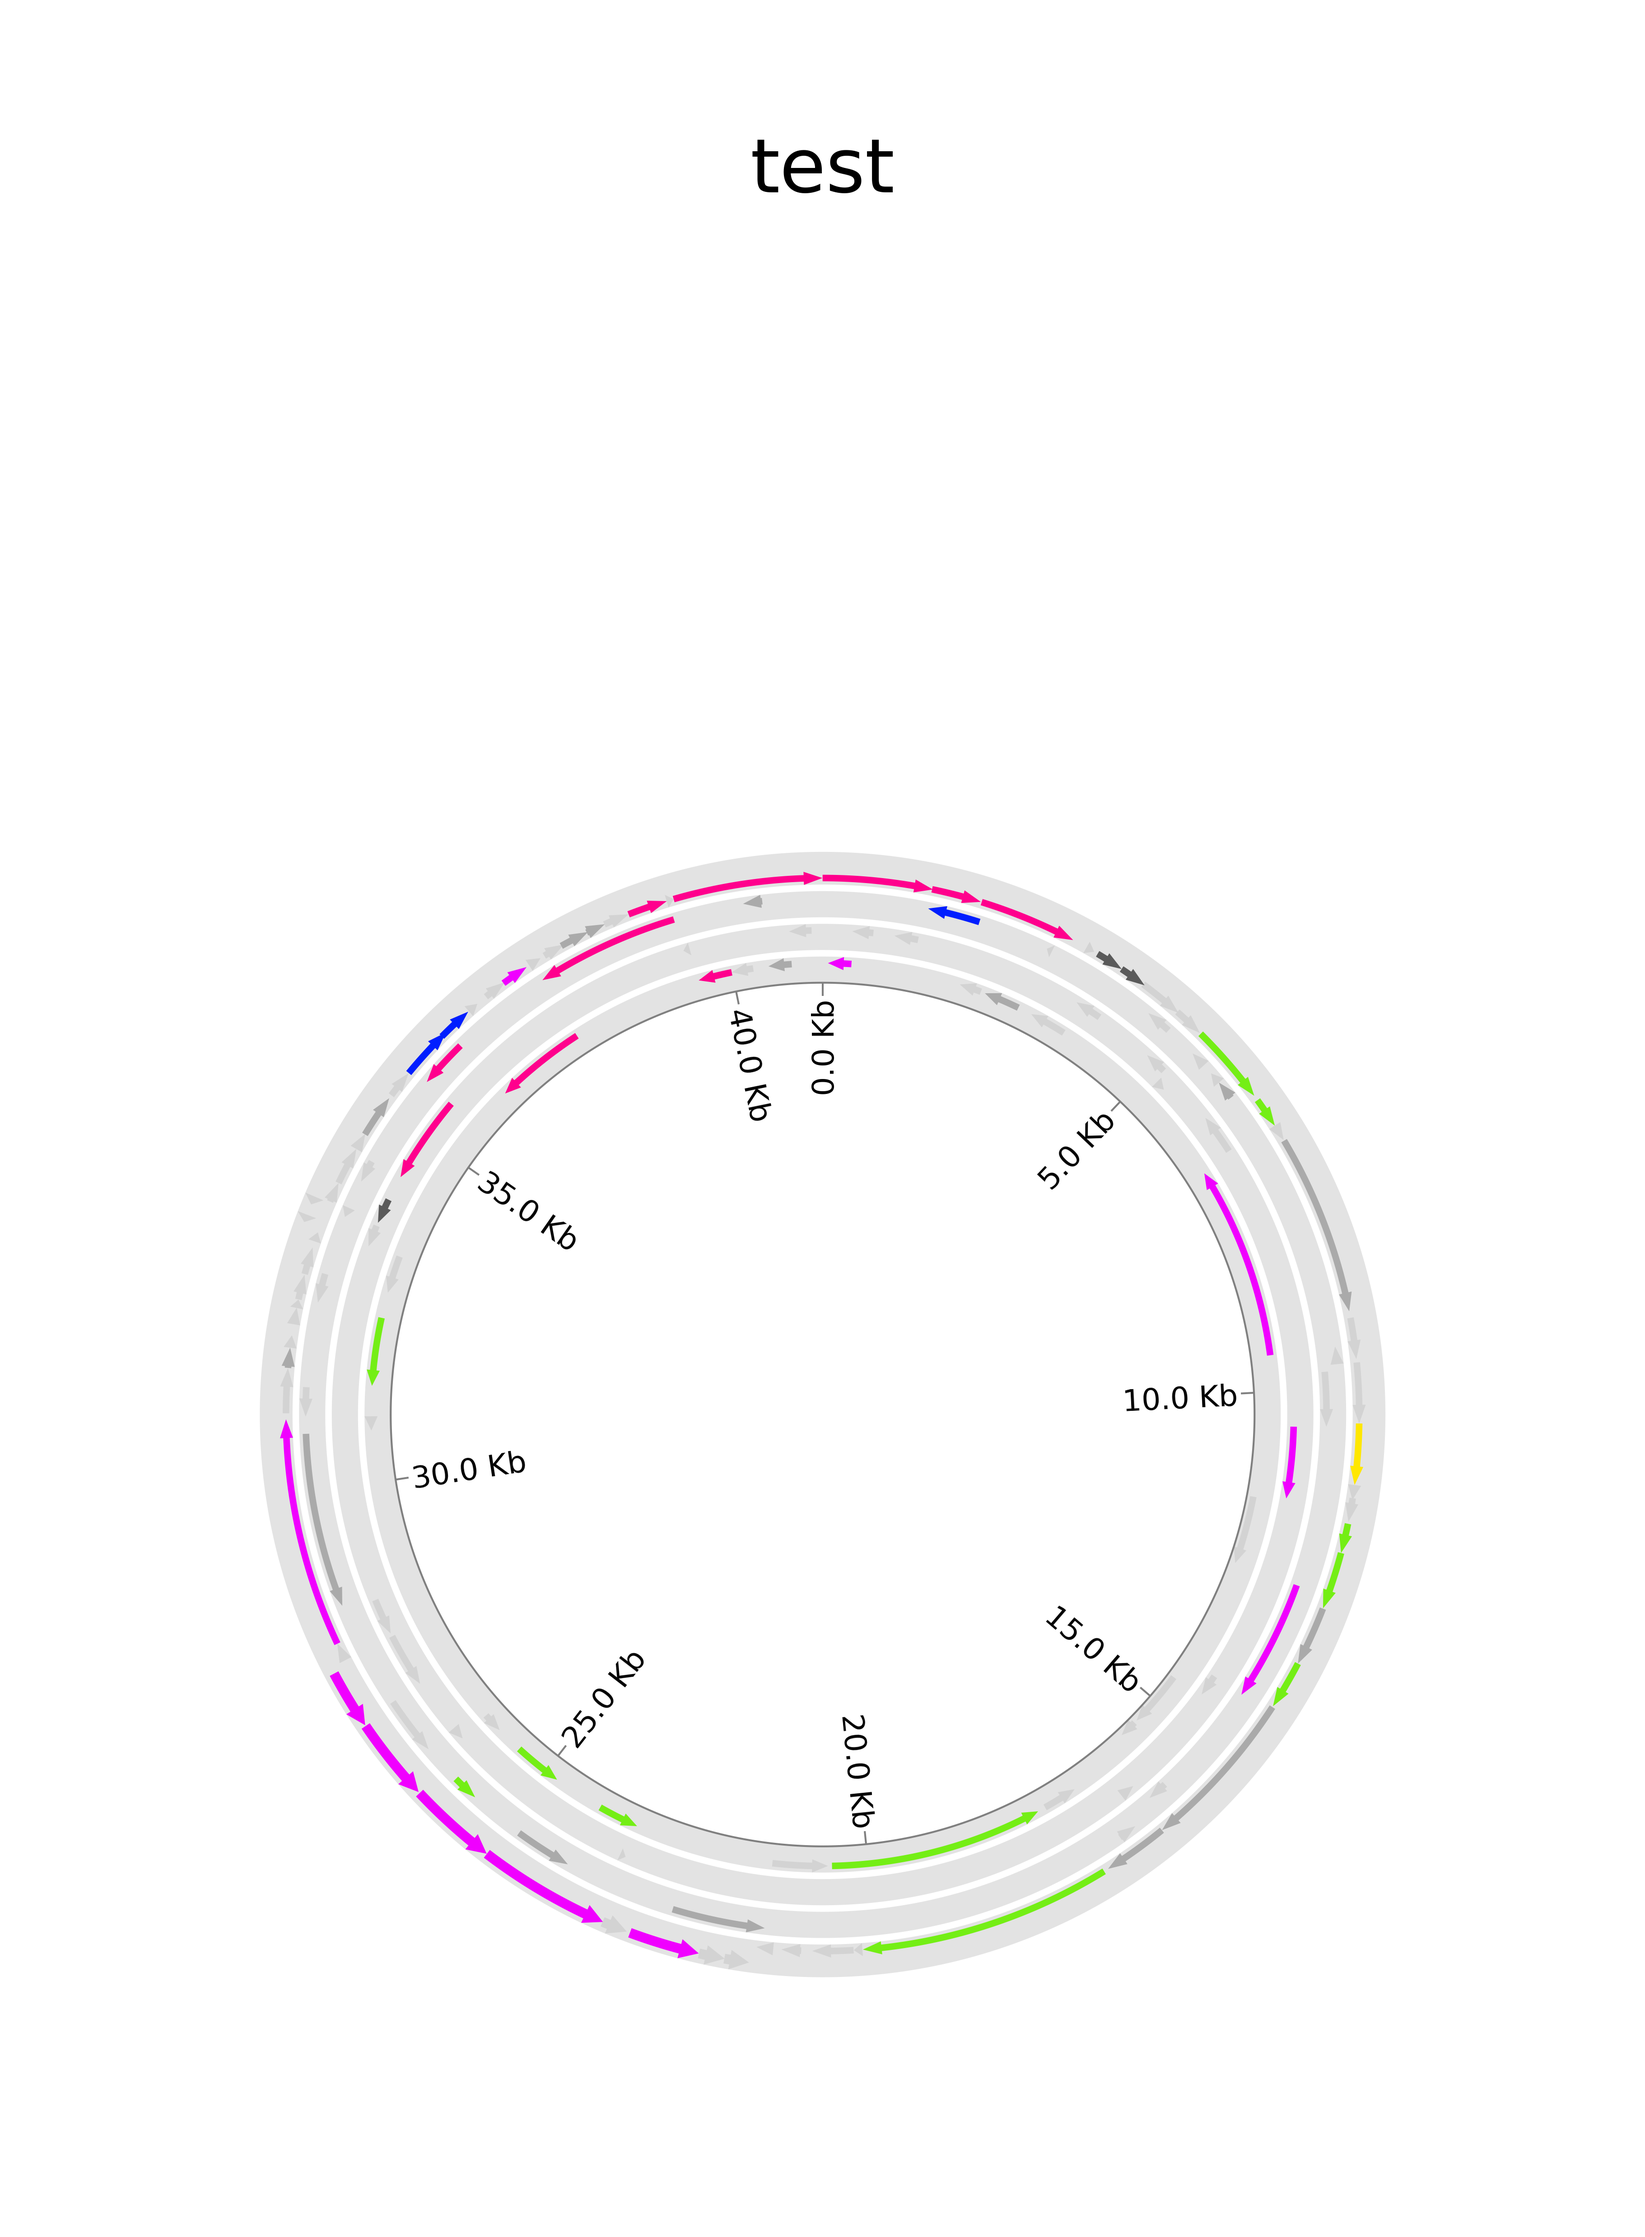
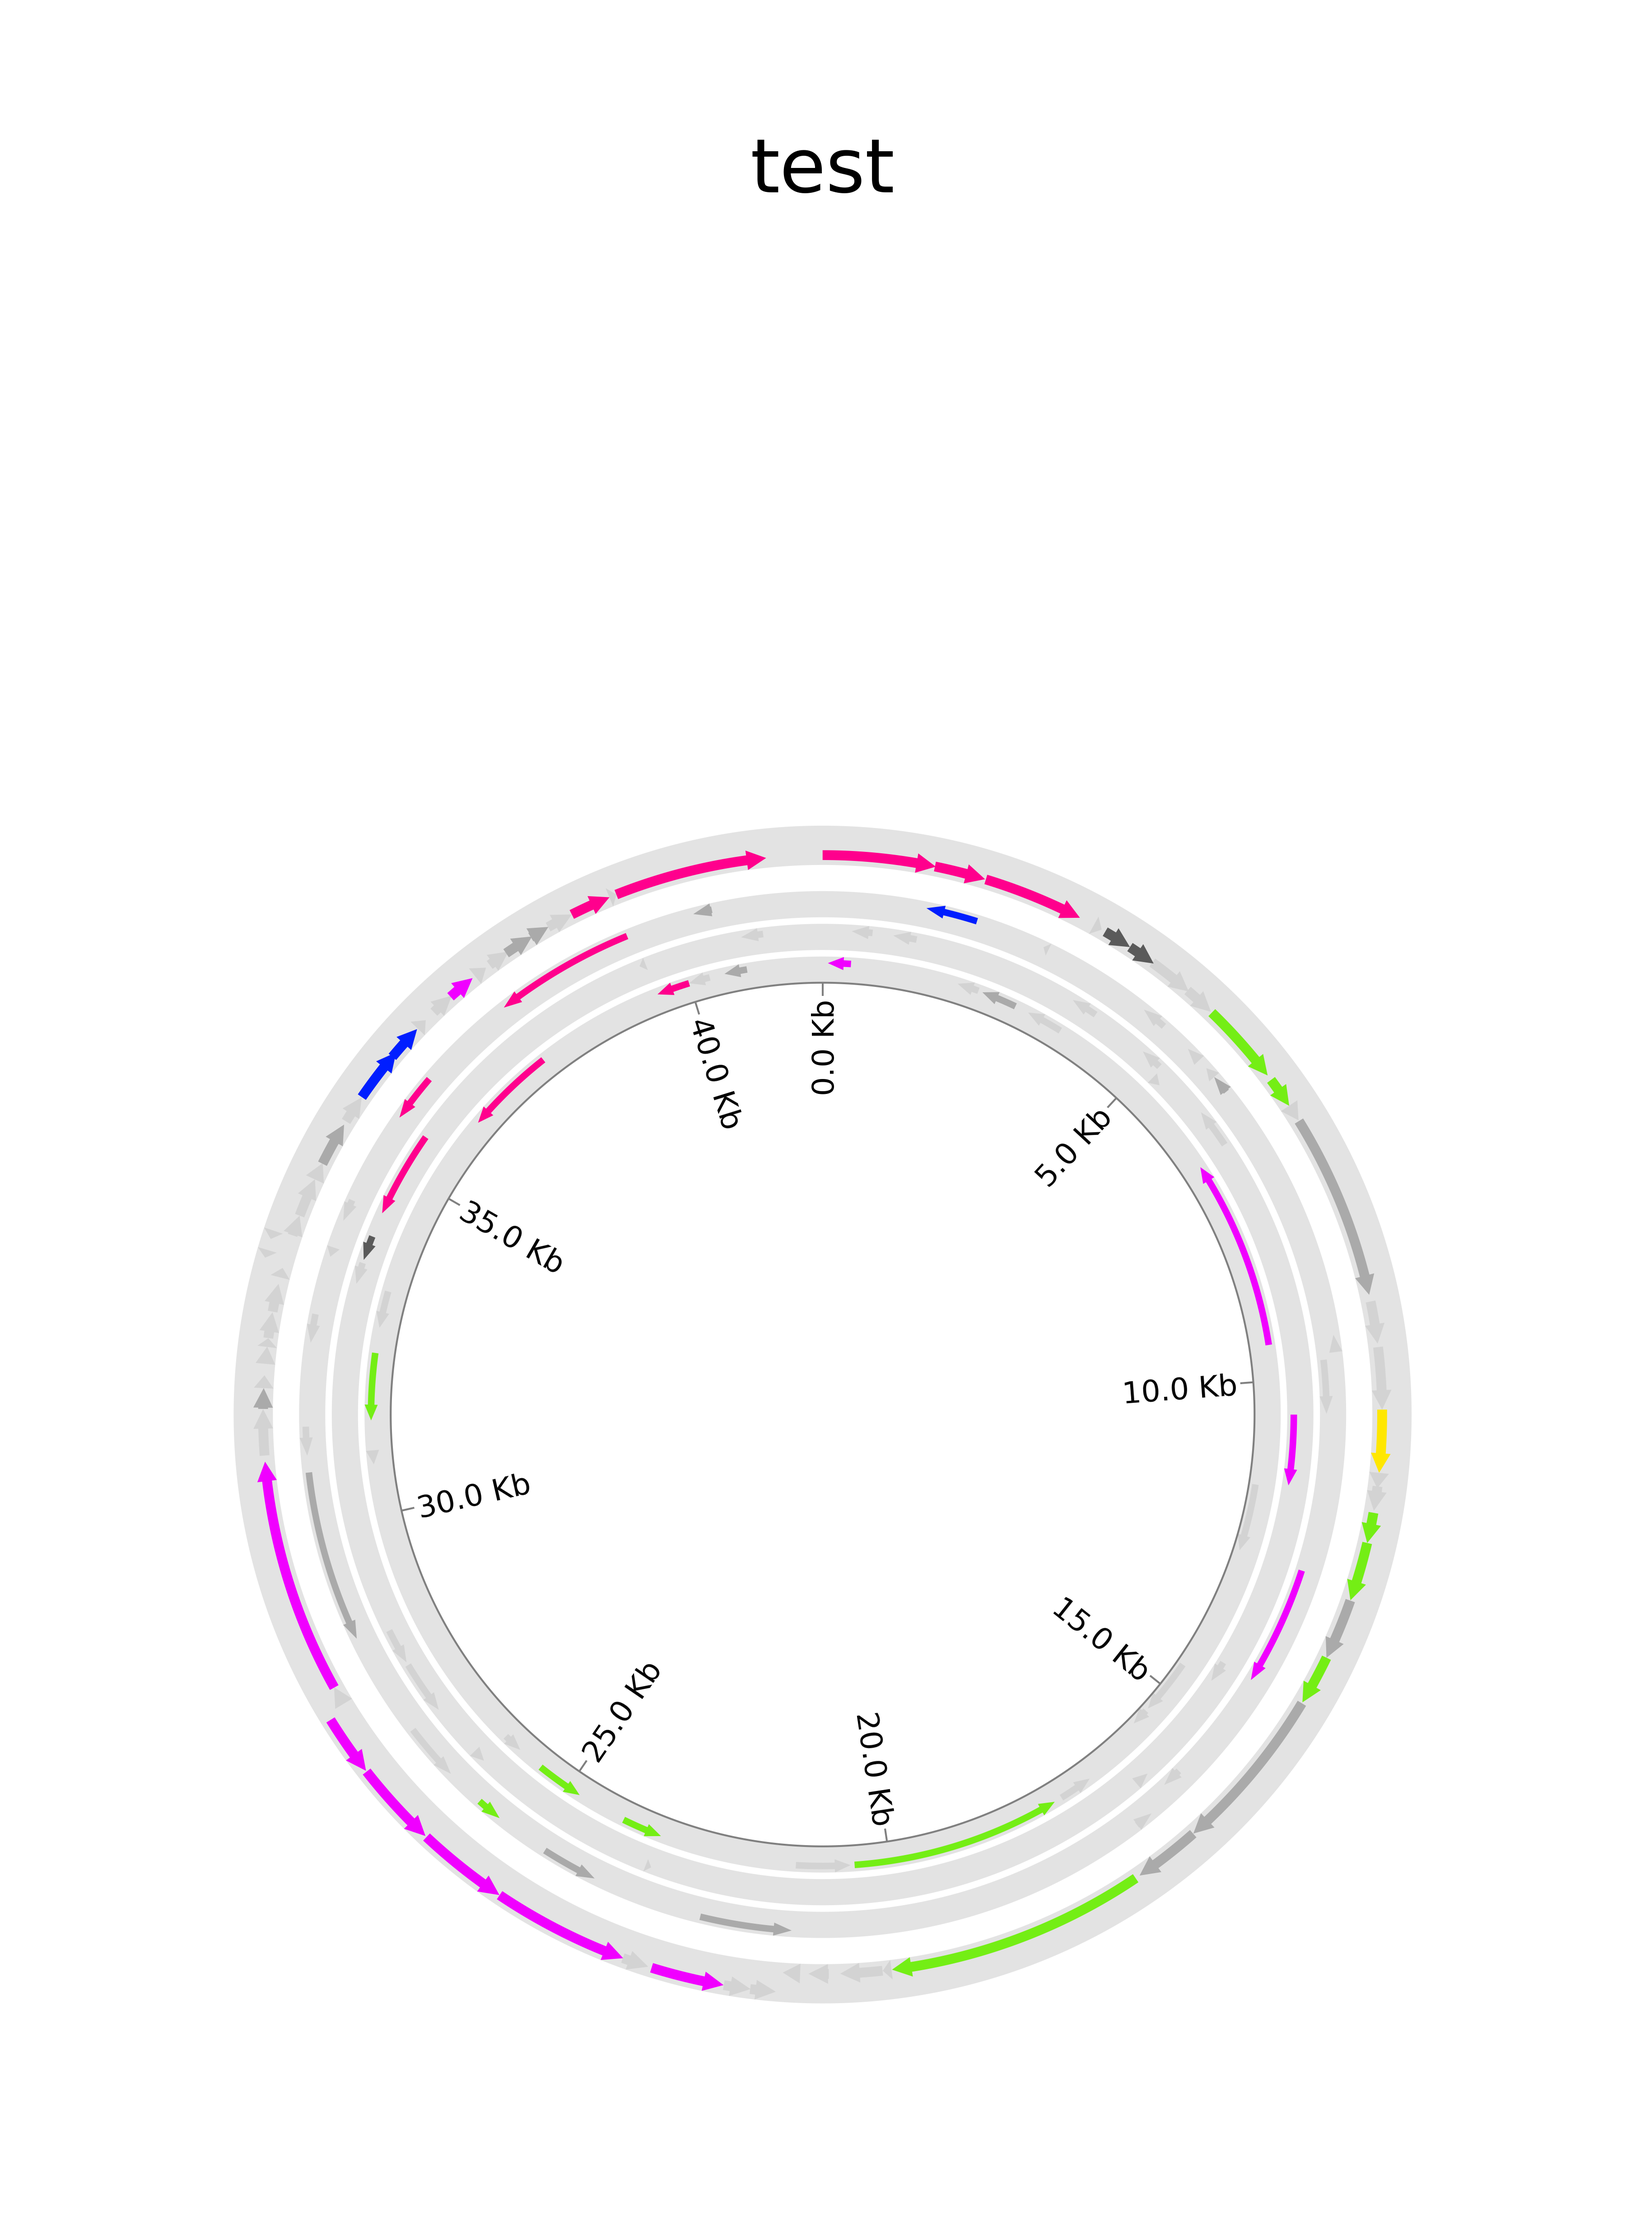
Added PhageTerm.

diff --git a/workflow/scripts/plotting_pharokka_genotate.py b/workflow/scripts/plotting_pharokka_genotate.py
@@ -121,7 +121,7 @@ track_init.xticks_by_interval(
 overlapping_track(gff_genotate, "#e3e3e3", sector, 71, 75, 1)
 overlapping_track(gff_genotate, "#e3e3e3", sector, 76, 80, 2)
 
-overlapping_track(gff_pharokka, "#e3e3e3", sector, 81, 86, 0)
+overlapping_track(gff_pharokka, "#e3e3e3", sector, 84, 90, 0)
 
 fig = circos.plotfig()
 
